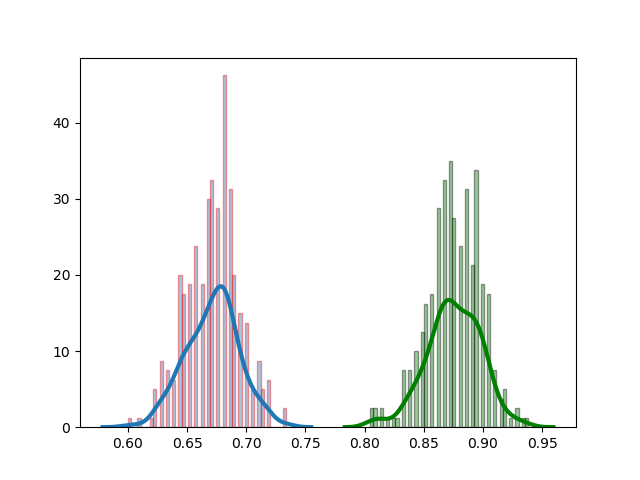
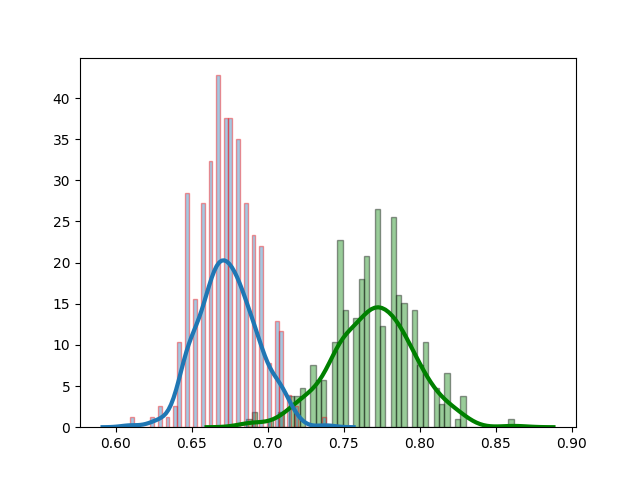
fix

diff --git a/question1.py b/question1.py
@@ -4,7 +4,7 @@ import math
 import os
 import shutil
 from scipy.spatial.distance import pdist
-from sklearn.preprocessing import minmax_scale
+from sklearn.preprocessing import MinMaxScaler
 from sklearn.metrics import adjusted_rand_score
 
 # TODO Plotar grafico PCA para resultado
@@ -34,8 +34,9 @@ rgb_view = data.values[:, 9:19]
 shape_view = shape_view[:,[0,1,5,6,7,8]]
 
 # Normalize data
-rgb_view = minmax_scale(rgb_view, feature_range=(0, 1), axis=0)
-shape_view = minmax_scale(shape_view, feature_range=(0, 1), axis=0)
+scaler = MinMaxScaler()
+rgb_view = scaler.fit_transform(rgb_view)
+shape_view = scaler.fit_transform(shape_view)
 
 data = {'rgb': rgb_view, 'shape': shape_view}
 

diff --git a/question2.py b/question2.py
@@ -4,6 +4,7 @@ import seaborn as sns
 import pandas as pd
 import scipy.stats
 import matplotlib.pyplot as plt
+from sklearn.preprocessing import MinMaxScaler
 from sklearn.naive_bayes import GaussianNB
 from sklearn.model_selection import RepeatedStratifiedKFold
 from sklearn.neighbors import KNeighborsClassifier
@@ -33,8 +34,9 @@ shape_view = shape_view[:,[0,1,5,6,7,8]]
 rgb_view = data.values[:, 9:19]
 
 # Normalize data
-rgb_view = minmax_scale(rgb_view, feature_range=(0, 1), axis=0)
-shape_view = minmax_scale(shape_view, feature_range=(0, 1), axis=0)
+scaler = MinMaxScaler()
+rgb_view = scaler.fit_transform(rgb_view)
+shape_view = scaler.fit_transform(shape_view)
 
 L = 2
 K = 7
